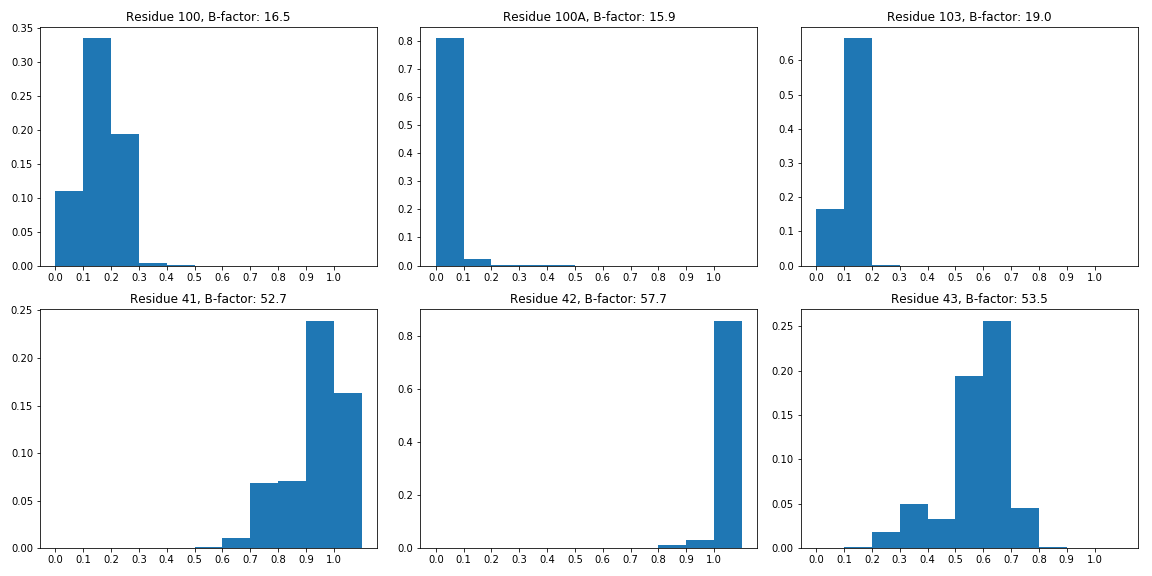
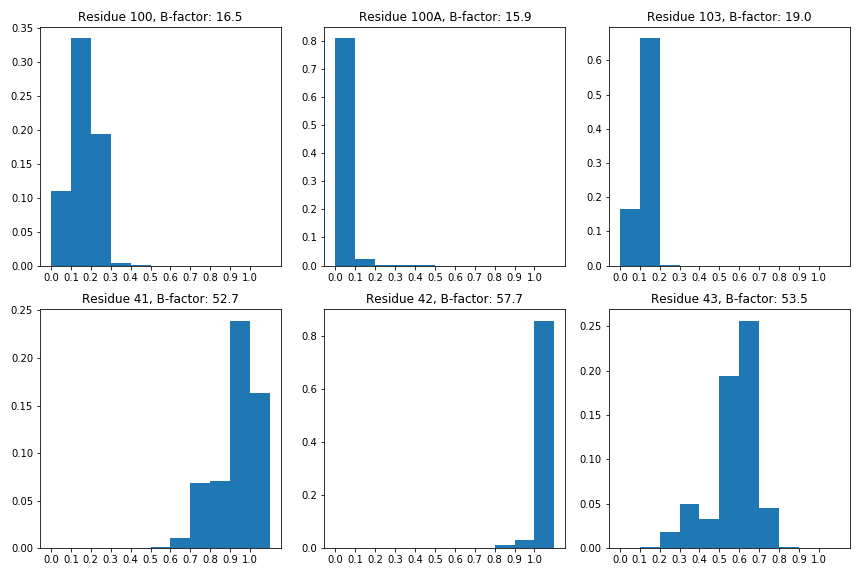
added styling

diff --git a/_posts/2021-05-27-resnet-antibody-surface.md b/_posts/2021-05-27-resnet-antibody-surface.md
@@ -18,7 +18,7 @@ Here, I’m going to describe a small project I did last year that uses a ResNet
 
 ![Antibody Surface](/images/5d71_surface.png)
 
-Image of an antibody Fv surface. We want to predict how much surface area each residue contributes to the entire surface.
+<caption>Image of an antibody Fv surface. We want to predict how much surface area each residue contributes to the entire surface. </caption>
 
 **Model Architecture**
 
@@ -34,14 +34,18 @@ All structures with a paired VH/VL domain with at most 99% sequence similarity a
 
 The model was trained for 30 epochs with a batch size of 4 and the epoch where the training and validation loss were closest was chosen for evaluation. The Adam optimizer was used with an initial learning rate of 0.01 and reduced when the model was plateuing. The outputs were normalized with the Softmax function and the bucket with the highest probability was chosen as the model prediction when evaluating the model against the experimental structures. 
 
-![Train Loss](/images/train_loss.png)
+<img align="center" src="/images/train_loss.png">
+
+<caption>Training and validation loss during each training epoch</caption>
 
 This model was trained with vanilla pytorch on my personal AWS instance on a NVIDIA k80 GPU in about 17 minutes. Inference was also performed on the same machine. I have since migrated to using pytorch lightning for my training to avoid pytorch version and hardware dependency issues. 
 
 **Overall Model Performance**
 The model had a 0.45 weighted average precision on the RosettaAntibody benchmark set. The model had significantly higher predictive power on buried positions than exposed positions. 
 
-![Test Confusion](/images/test_confusion.png)
+<img align="center" src="/images/test_confusion.png">
+
+<caption>Confusion matrix for the model on the test set</caption>
 
 Previous work (Jain et al. (2017) Bioinformatics) on predicting antibody surface areas trained a separate Random Forest Regressor on each residue position in the Fv with handcrafted features. While this approach was accurate, it requires training over 200 models and cannot handle sequences with variable CDR lengths if similar sets are not found in the training set. 
 
@@ -49,7 +53,9 @@ Previous work (Jain et al. (2017) Bioinformatics) on predicting antibody surface
 
 Antibody Fv sequences have a high amount of conservation except for 6 loops, 3 in the heavy chain and 3 in the light chain called complementarity determining regions (CDRs). The CDRs go through rapid evolution which allows them to gain specificity to antigens they have never seen before. Five of the six CDRs adopt some well known folds but the CDRH3 is notoriously difficult to model and specifically important for binding. I calculated the confusion matrices for all the CDRs in the test sets using the Chothia definition.
 
-![CDR Confusion](/images/cdr_confusion.png)
+<img align="center" src="/images/cdr_confusion.png">
+
+<caption>Confusion matrix for the model on each CDR in the test set. The x axis represents predicted values and the y axis represents the experimental values</caption>
 
 As expected the predictions for the CDRH3 are much worse than the predictions for the other CDRs. The CDRL3 also was harder to model than the other CDRs in the test set. This is a limitation of the method especially in the protein design context because the areas we would design would be the CDRs. Further work with different model architectures might be able to improve the predictions in these CDR regions. 
 
